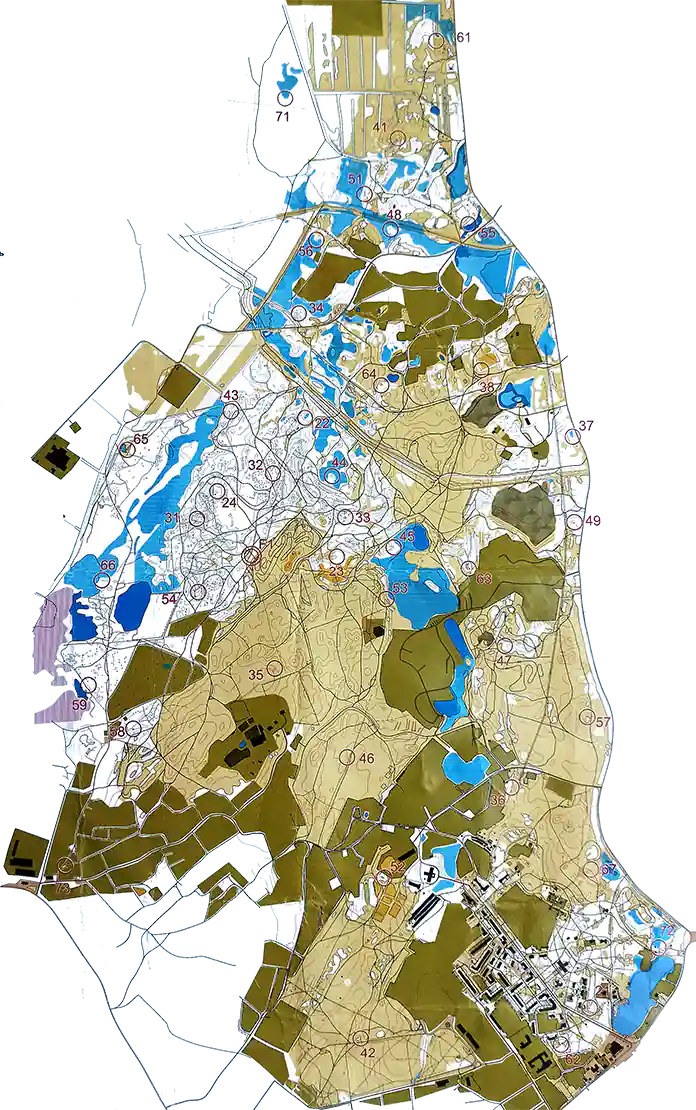
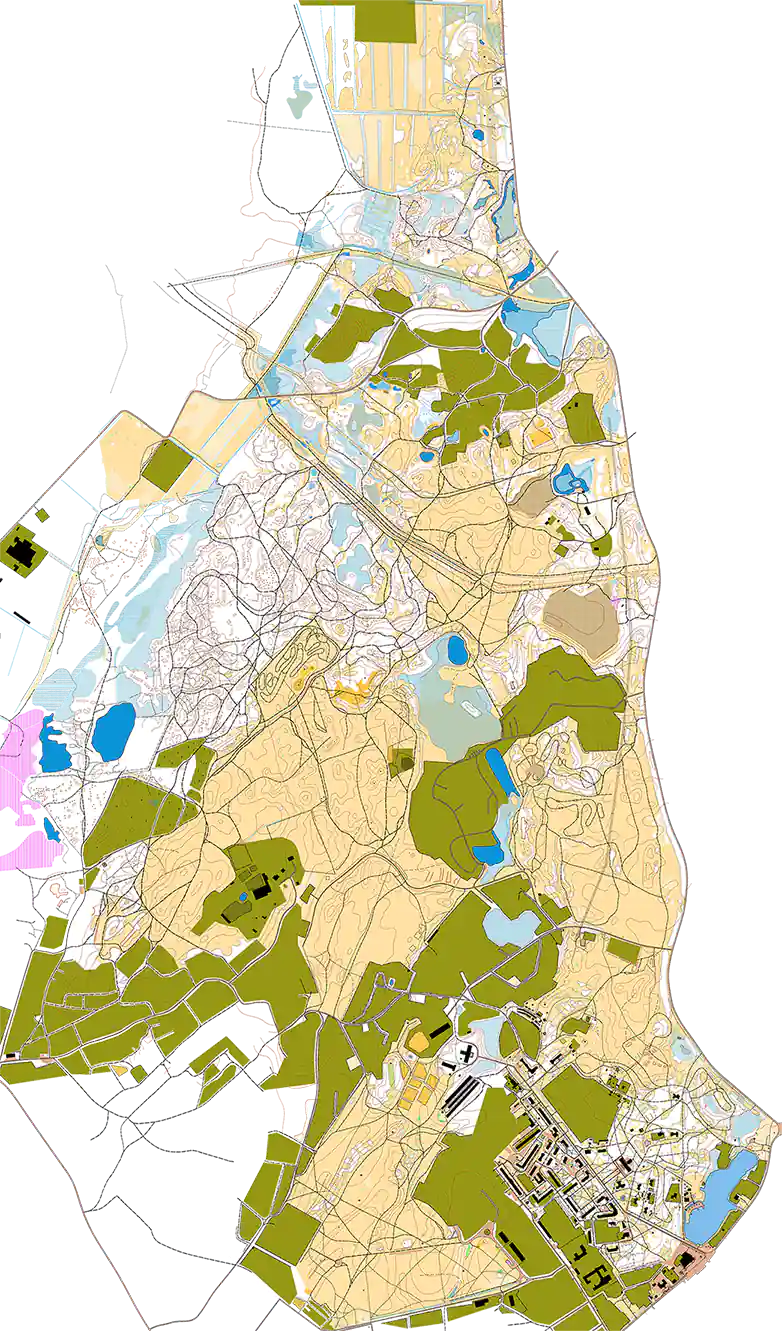
Рогейнерские карты от Виктора Рылова

diff --git a/js/maps-rogaine.js b/js/maps-rogaine.js
@@ -52,19 +52,21 @@ let rogaineMaps = [
         types: ['ROGAINE'],
     },
     {
-        name: 'Шапки - Финал КЛО',
+        name: 'Шапки',
         year: 2019,
-        url: './maps/rogaine/shapki_KLO_2019.jpg',
-        bounds: [[59.62766525116755, 31.11662864685059], [59.63643039704262, 31.209068298339847], [59.55989691029292, 31.14486694335938]],
+        info: 'КЛО 2019, 2024.',
+        url: './maps/rogaine/shapki_KLO_2024.webp',
+        link: ['./original_maps/rogaine/shapki_KLO_2019_full.jpg','./original_maps/rogaine/shapki_KLO_2024_full.jpg'],
+        bounds: [[59.62961808079296, 31.124010086059574], [59.6245838890069, 31.25473022460938], [59.568679740934435, 31.112508773803714]],
         types: ['ROGAINE'],
     },
     {
         name: 'Кузнечное',
         year: 2009,
+        info: 'VI Чемпионат России по рогейну',
         url: './maps/rogaine/kuznechnoe_2009.webp',
         link: './original_maps/rogaine/kuznechnoe_2009_full.jpg',
         bounds: [[61.19538604557029, 29.662742614746097], [61.194889777986376, 29.914054870605472], [61.04831536461298, 29.662055969238285]],
-        info: 'VI Чемпионат России по рогейну',
         owner: 'GK',
         types: ['ROGAINE'],
     },
@@ -158,6 +160,18 @@ let rogaineMaps = [
         link: 'https://web.archive.org/web/20161220160945/http://www.rogaine-spb.ru/race0807/map.gif',
         bounds: [[60.803236100904606, 29.611244201660156], [60.9023956835838, 29.857749938964847], [60.635657869155416, 29.90409851074219]],
         info: 'IV Чемпионат России по рогейну',
+        author: ['ANTPV','KMN_I','OZRV'],
+        types: ['ROGAINE'],
+    },
+    {
+        name: 'Лосево',
+        year: 2024,
+        info: 'КЛО',
+        url: './maps/rogaine/losevo_2024.webp',
+        link: './original_maps/rogaine/losevo_2024_full.jpg',
+        bounds: [[60.70284446693063, 29.885559082031254], [60.69729994707354, 29.98872756958008], [60.67221165274837, 29.879207611083988]],
+        author: 'RYLOV_V',
+        owner: 'RYLOV_V',
         types: ['ROGAINE'],
     },
     {
@@ -175,7 +189,8 @@ let rogaineMaps = [
         url: './maps/rogaine/pervomajskoe_rrc_2012.webp',
         link: 'https://rrc2012.rogaining.ru/download/9rrc_map.jpg',
         bounds: [[60.47701790290766, 29.584808349609375], [60.44993780053481, 29.986152648925785], [60.30824657381306, 29.535713195800785]],
-        info: 'IX Чемпионат России по рогейну',
+        info: 'IX Чемпионат России по рогейну.',
+        author: 'RYLOV_V',
         types: ['ROGAINE'],
     },
     {
@@ -188,19 +203,33 @@ let rogaineMaps = [
         types: ['ROGAINE'],
     },
     {
+        name: 'Первомайское',
+        year: 2023,
+        url: './maps/rogaine/pervomajskoe_2023.webp',
+        link: './original_maps/rogaine/pervomajskoe_2023_full.jpg',
+        bounds: [[60.440496769918916, 29.666519165039066], [60.43427180983662, 29.761619567871097], [60.386634728114444, 29.652872085571293]],
+        info: 'Финал КЛО.',
+        author: 'RYLOV_V',
+        owner: 'RYLOV_V',
+        types: ['ROGAINE'],
+    },
+    {
         name: 'Запорожское',
         year: 2016,
         url: './maps/rogaine/zaporozhskoe_2016.webp',
         link: 'https://www.multsport.ru/images/rogRus16/map.jpg',
         bounds: [[60.67923162227499, 30.155410766601566], [60.688813300289965, 30.679321289062504], [60.43164595895512, 30.173263549804688]],
         info: 'XIII Чемпионат России по рогейну',
+        author: 'RYLOV_V',
         types: ['ROGAINE'],
     },
     {
         name: 'Зеркальный',
         year: 2022,
         url: './maps/rogaine/zerkalny_rrc_2022.webp',
+        link: './original_maps/rogaine/zerkalny_rrc_2022_full.jpg',
         bounds: [[60.34207085274035, 28.864517211914066], [60.37518126453458, 29.334526062011722], [60.138086026326405, 28.924255371093754]],
+        author: 'RYLOV_V',
         info: 'II Кубок России по рогейну',
         types: ['ROGAINE'],
     },
@@ -218,6 +247,7 @@ let rogaineMaps = [
         name: 'Гарболово',
         year: 2022,
         url: './maps/rogaine/garbolovo_2022.webp',
+        // link: './original_maps/rogaine/garbolovo_2022_full.jpg',
         bounds: [[60.39155423873948, 30.440025329589847], [60.37772682670247, 30.554180145263675], [60.352092422734586, 30.418910980224613]],
         info: 'Финал КЛО',
         author: 'RYLOV_V',
@@ -281,6 +311,16 @@ let rogaineMaps = [
         types: ['ROGAINE'],
     },
     {
+        name: 'Яппиля',
+        year: 2011,
+        url: './maps/rogaine/jappilya_2011.webp',
+        link: './original_maps/rogaine/jappilya_2011_full.jpg',
+        bounds: [[60.28111085167392, 28.998584747314457], [60.283578666424795, 29.285087585449222], [60.18045290464438, 29.003047943115238]],
+        author: 'RYLOV_V',
+        owner: 'RYLOV_V',
+        types: ['ROGAINE'],
+    },
+    {
         name: 'Рогейн на холмах Яппиля',
         year: 2024,
         url: './maps/rogaine/jappilya_2024.webp',
@@ -334,12 +374,68 @@ let rogaineMaps = [
         types: ['ROGAINE'],
     },
     {
+        name: 'Медное-Пасторское',
+        year: 2024,
+        info: 'КЛО',
+        url: './maps/rogaine/mednoe_2024.webp',
+        link: './original_maps/rogaine/mednoe_2024_full.jpg',
+        bounds: [[60.25148254664529, 29.986839294433597], [60.23559311684475, 30.17626762390137], [60.21018810727095, 29.97199058532715]],
+        author: ['RYLOV_V','CHGRVSKY_Y','CHGRVSKY_V'],
+        owner: 'RYLOV_V',
+        types: ['ROGAINE'],
+    },
+    {
         name: 'Колтуши',
         year: 2018,
         info: 'КЛО',
         url: './maps/rogaine/koltushi_2018.webp',
-        bounds: [[59.98275964521249, 30.613574981689453], [59.97837970918946, 30.675029754638675], [59.93403246134147, 30.598897933959964]],
+        link: './original_maps/rogaine/koltushi_2018_full.jpg',
+        bounds: [[59.98267376968364, 30.616922378540043], [59.97816499154398, 30.674600601196293], [59.93424746513194, 30.602760314941406]],
         author: 'RYLOV_V',
+        owner: 'RYLOV_V',
+        types: ['ROGAINE'],
+    },
+    {
+        name: 'Воейково',
+        year: 2014,
+        info: 'Чемпионат СЗФО',
+        url: './maps/rogaine/voejkovo_2014.webp',
+        link: './original_maps/rogaine/voejkovo_2014_full.jpg',
+        bounds: [[60.02515492614669, 30.65614700317383], [60.02498339487812, 30.82798004150391], [59.89591177914583, 30.65546035766602]],
+        author: 'RYLOV_V',
+        owner: 'RYLOV_V',
+        types: ['ROGAINE'],
+    },
+    {
+        name: 'Всеволожск',
+        year: 2015,
+        info: 'Кубок Всеволожского р-она',
+        url: './maps/rogaine/vsevolozhsk_2015.webp',
+        link: './original_maps/rogaine/vsevolozhsk_2015_full.jpg',
+        bounds: [[60.03381609748235, 30.563621520996097], [60.03415906743088, 30.66661834716797], [59.96824351795802, 30.563449859619144]],
+        author: 'RYLOV_V',
+        owner: 'RYLOV_V',
+        types: ['ROGAINE'],
+    },
+    {
+        name: 'Мельничный Ручей',
+        year: 2016,
+        info: 'Кубок Всеволожского р-она',
+        url: './maps/rogaine/melnichny_ruchej_2016.webp',
+        link: './original_maps/rogaine/melnichny_ruchej_2016_full.jpg',
+        bounds: [[60.03896027284075, 30.636062622070316], [60.03887454314954, 30.71657180786133], [59.966009702748345, 30.635890960693363]],
+        author: 'RYLOV_V',
+        owner: 'RYLOV_V',
+        types: ['ROGAINE'],
+    },
+    {
+        name: 'Будогощь',
+        year: 2016,
+        url: './maps/rogaine/budogosch_2010.webp',
+        link: './original_maps/rogaine/budogosch_2010_full.jpg',
+        bounds: [[59.32084193074355, 32.31113433837891], [59.31103079329914, 32.45773315429688], [59.26359961396579, 32.29997634887696]],
+        author: 'RYLOV_V',
+        owner: 'RYLOV_V',
         types: ['ROGAINE'],
     },
 ];

diff --git a/js/authors.js b/js/authors.js
@@ -2,6 +2,7 @@ let authors = {
     ALNKVA: { name: 'Алейникова Екатерина' },
     ANDRV_E: { name: 'Андреев Е.' },
     ANSFRV: { name: 'Анисифоров К.' },
+    ANTPV: { name: 'Антипов М.' },
     APTNKV: { name: 'Апатенков Сергей' },
     APRN: { name: 'Апарин Всеволод' },
     ARTMV: {
@@ -160,6 +161,7 @@ let authors = {
     KCHTV: { name: 'Кочетов А.' },
     KHDNKCH: { name: 'Худеньких Ю.' },
     KLCHTSKA: { name: 'Кульчицкая Е.' },
+    KMN_I: { name: 'Комин И.' },
     KOUKNN_M: { name: 'Куокканен М.' },
     KOUKNN_Y: { name: 'Куокканен Юрий' },
     KNSTNTNV_D: { name: 'Константинов Д.' },
@@ -252,6 +254,7 @@ let authors = {
         about: 'https://o-site.spb.ru/history/Peoples/yurov.html',
         icon: 'ovchnkv.jpg'
     },
+    OZRV: { name: 'Озеров А.' },
     PKHMV: { name: 'Пахомов Сергей' },
     PLBTKO: { name: 'Полуботко А.' },
     PLMNN: { name: 'Пульманен П.' },
